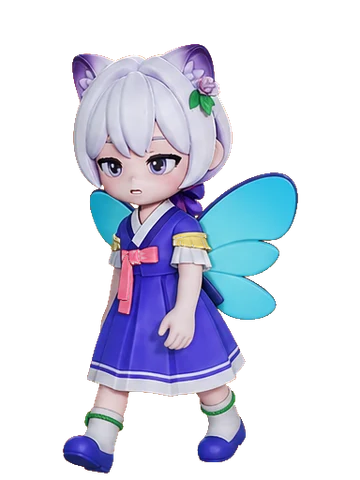
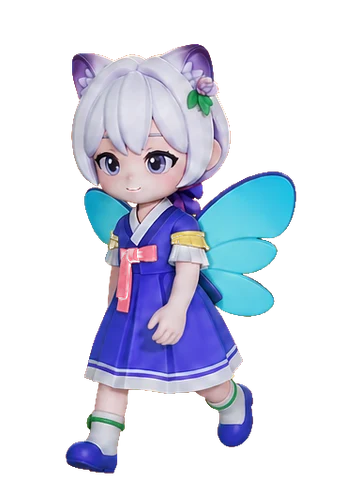
feat: 새 걷기 시트(스마일) 적용 + 뒤로걷기를 역재생으로 — 발 정지 문제 해결
- 스크롤 다운: 새 시트 정방향 / 스크롤 업: 동일 시트 역재생 (발 움직임 보장)
- back 전용 시트 의존 제거

Claude-Session: https://claude.ai/code/session_01AnLUZv8TEaG6nPnv7iVvyS

Changed region(s): [[0.1528, 0.0938, 0.825, 1.0], [0.3972, 0.1562, 0.4583, 0.1875], [0.3361, 0.0938, 0.3667, 0.125]]

diff --git a/components/walking-character/index.tsx b/components/walking-character/index.tsx
@@ -5,7 +5,7 @@ import { cn } from "@/lib/utils";
 
 /**
  * 인터랙티브 캐릭터 — 우선순위: 걷기 > 마우스 시선 > 날개 펄럭임 idle
- * - 스크롤: 시간 기반 걷기 재생 (아래=walk, 위=back)
+ * - 스크롤: 시간 기반 걷기 재생 (아래=정방향, 위=역재생=뒤로걷기)
  * - 멈춘 뒤 마우스가 움직이면: 9방향 시선(gaze)으로 커서를 따라봄
  * - 마우스도 잠잠하면: 6프레임 날개 펄럭임(idle 시트) + 둥실 부유
  */
@@ -18,10 +18,7 @@ const GAZE_DEADZONE = 70;
 const GAZE_THROTTLE_MS = 100;
 const GAZE_HOLD_MS = 2000; // 마우스 멈춘 뒤 시선 유지 시간
 
-type Sheet = "walk" | "back";
-
-const walkSrc = (sheet: Sheet, i: number) =>
-  `/images/character/${sheet}-${i}.webp`;
+const walkSrc = (i: number) => `/images/character/walk-${i}.webp`;
 // gaze: 0 좌상 1 상 2 우상 / 3 좌 4 정면 5 우 / 6 좌하 7 하 8 우하
 const gazeSrc = (i: number) => `/images/character/gaze-${i}.webp`;
 const idleSrc = (i: number) => `/images/character/idle-${i}.webp`;
@@ -41,7 +38,6 @@ const preload = (srcs: string[]) =>
 
 const WalkingCharacter = () => {
   const [frame, setFrame] = useState(0);
-  const [sheet, setSheet] = useState<Sheet>("walk");
   const [idle, setIdle] = useState(true);
   const [gaze, setGaze] = useState(4);
   const [gazeActive, setGazeActive] = useState(false);
@@ -50,7 +46,7 @@ const WalkingCharacter = () => {
   const [walkReady, setWalkReady] = useState(false);
   const [gazeReady, setGazeReady] = useState(false);
   const [idleReady, setIdleReady] = useState(false);
-  const dir = useRef<Sheet>("walk");
+  const dir = useRef<1 | -1>(1);
   const lastScrollAt = useRef(0);
   const lastY = useRef(0);
   const lastGazeAt = useRef(0);
@@ -60,11 +56,7 @@ const WalkingCharacter = () => {
   // 프리로드: 걷기(필수) / 시선·펄럭임(있으면 활성화)
   useEffect(() => {
     let alive = true;
-    preload(
-      (["walk", "back"] as const).flatMap((s) =>
-        Array.from({ length: WALK_FRAMES }, (_, i) => walkSrc(s, i)),
-      ),
-    )
+    preload(Array.from({ length: WALK_FRAMES }, (_, i) => walkSrc(i)))
       .then(() => alive && setWalkReady(true))
       .catch(() => {});
     preload(Array.from({ length: 9 }, (_, i) => gazeSrc(i)))
@@ -89,7 +81,7 @@ const WalkingCharacter = () => {
       const delta = y - lastY.current;
       lastY.current = y;
       if (delta === 0) return;
-      dir.current = delta > 0 ? "walk" : "back";
+      dir.current = delta > 0 ? 1 : -1;
       lastScrollAt.current = performance.now();
     };
 
@@ -115,11 +107,10 @@ const WalkingCharacter = () => {
       }
 
       setIdle(false);
-      setSheet(dir.current);
       acc += dt;
       while (acc >= FRAME_MS) {
         acc -= FRAME_MS;
-        currentFrame = (currentFrame + 1) % WALK_FRAMES;
+        currentFrame = (currentFrame + dir.current + WALK_FRAMES) % WALK_FRAMES;
         if (!scrollingRecently && currentFrame === 0) break;
       }
       setFrame(currentFrame);
@@ -206,20 +197,16 @@ const WalkingCharacter = () => {
     >
       {/* 모든 프레임을 겹쳐두고 현재 것만 표시 — 교체 깜빡임 없음 */}
       <div className="relative h-52 w-40 lg:h-64 lg:w-48">
-        {(["walk", "back"] as const).map((s) =>
-          Array.from({ length: WALK_FRAMES }, (_, i) => (
-            // eslint-disable-next-line @next/next/no-img-element
-            <img
-              key={`${s}-${i}`}
-              src={walkSrc(s, i)}
-              alt=""
-              draggable={false}
-              className={layer(
-                !showGaze && !showIdle && s === sheet && i === frame,
-              )}
-            />
-          )),
-        )}
+        {Array.from({ length: WALK_FRAMES }, (_, i) => (
+          // eslint-disable-next-line @next/next/no-img-element
+          <img
+            key={`walk-${i}`}
+            src={walkSrc(i)}
+            alt=""
+            draggable={false}
+            className={layer(!showGaze && !showIdle && i === frame)}
+          />
+        ))}
         {gazeReady &&
           Array.from({ length: 9 }, (_, i) => (
             // eslint-disable-next-line @next/next/no-img-element
